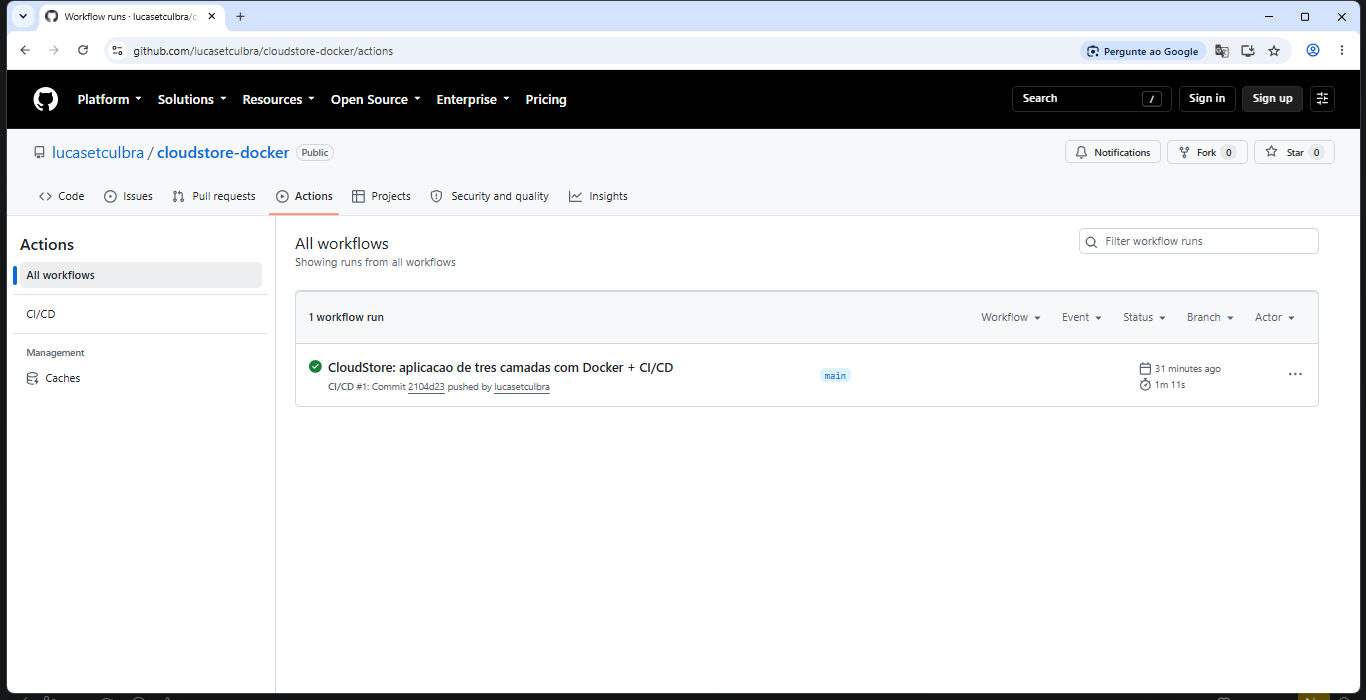
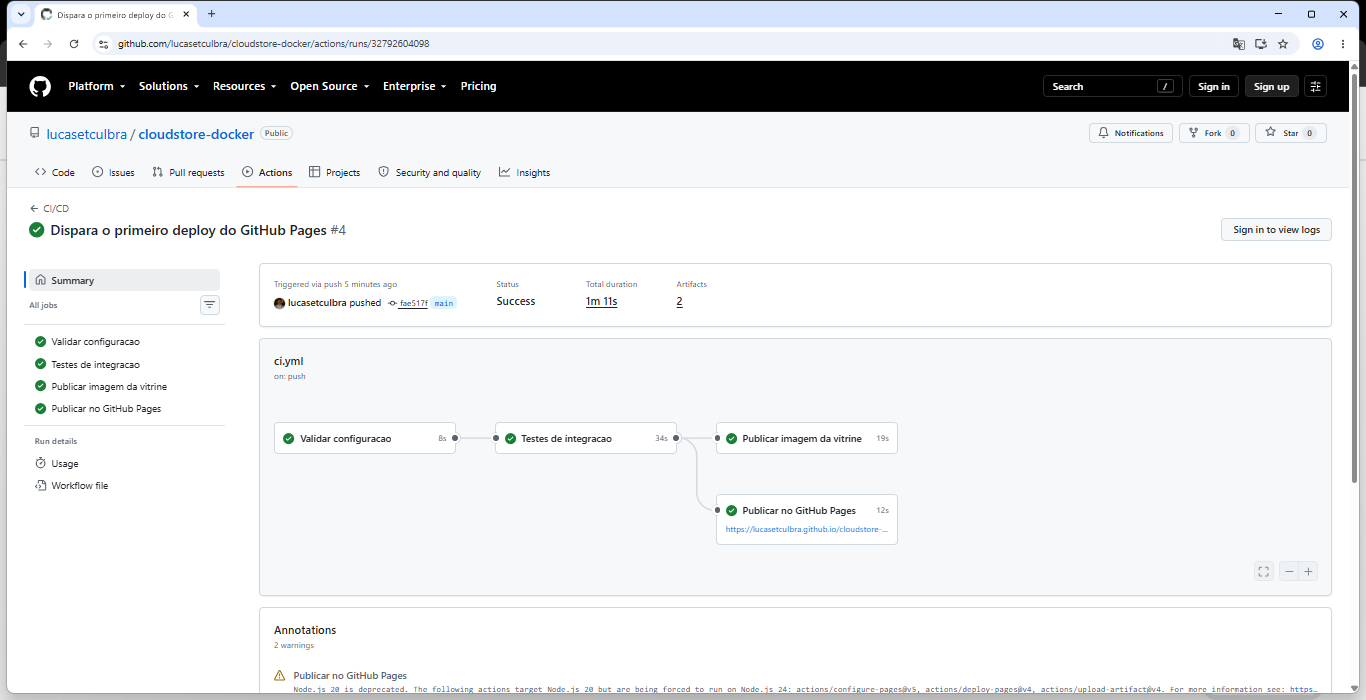
Atualiza a landing page e as evidencias com a etapa do Pages
- site/index.html: o pipeline agora tem quatro etapas, e a ultima e a que
  publica esta propria pagina
- prints 09/10 recapturados com o encadeamento completo, incluindo o job do
  Pages e a URL publicada
- print 11: a pagina do projeto no ar
- prints/README.md documenta o print novo e a ressalva de que /api/ nao
  funciona no Pages, por ser hospedagem estatica

diff --git a/site/index.html b/site/index.html
@@ -257,8 +257,9 @@ docker compose ps</code></pre>
   <section>
     <h2>O pipeline de CI/CD</h2>
     <p class="sub">
-      Três etapas encadeadas no GitHub Actions. A mais interessante é a primeira: ela transforma
-      a regra de segurança da arquitetura num teste automático.
+      Quatro etapas encadeadas no GitHub Actions — esta página é publicada pela última delas.
+      A mais interessante é a primeira: ela transforma a regra de segurança da arquitetura
+      num teste automático.
     </p>
     <div class="etapas">
       <div class="etapa">
@@ -283,6 +284,15 @@ docker compose ps</code></pre>
         <p>
           Empacota a vitrine numa imagem e envia para o GitHub Container Registry, com tag
           <code>latest</code> e tag do SHA do commit — o que torna o deploy reversível.
+        </p>
+      </div>
+      <div class="etapa">
+        <span class="n">4</span>
+        <b>paginas</b>
+        <p>
+          Monta e publica esta página no GitHub Pages, junto com a galeria de evidências e o
+          espelho estático da vitrine. Se o Pages ainda não estiver habilitado, avisa e se
+          encerra sem quebrar o pipeline.
         </p>
       </div>
     </div>

diff --git a/prints/README.md b/prints/README.md
@@ -117,14 +117,26 @@ Versões separadas do mesmo teste, caso seja preferível montar o print no docum
 - **Comprova:** **CI/CD** — o pipeline roda automaticamente a cada push.
 
 ### `10-github-actions-jobs.png`
-- **O que aparece:** o detalhe da execução, com o encadeamento das etapas
-  `Validar configuracao` → `Testes de integracao` → `Publicar imagem da vitrine`,
-  todas em verde, e o artefato publicado.
-- **Comprova:** **CI/CD** — as etapas de validação, teste de integração e entrega.
+- **O que aparece:** o detalhe da execução, com o encadeamento completo das etapas —
+  `Validar configuracao` → `Testes de integracao` → e daí em paralelo para
+  `Publicar imagem da vitrine` e `Publicar no GitHub Pages`, todas em verde. O job do Pages
+  ainda mostra a URL publicada logo abaixo dele.
+- **Comprova:** **CI/CD** — validação, teste de integração e as duas entregas (imagem + site).
 - **O que o pipeline realmente verifica:** além de subir a stack e rodar as 15 asserções que cobrem
   as Tarefas 2 a 8, a etapa `validar` trata a regra de segurança da arquitetura como *policy as code*:
   o build **falha** se a `api` ou o `banco` ganharem `ports:`, ou se o MinIO publicar qualquer porta
   além da `9001`.
+
+### `11-github-pages-site.png`
+- **O que aparece:** a página do projeto publicada em
+  <https://lucasetculbra.github.io/cloudstore-docker/>, com o selo do pipeline em `passing` e o
+  diagrama separando a sub-rede pública da privada.
+- **Comprova:** **CI/CD** — entrega contínua de fato, com o site publicado automaticamente a
+  cada push na `main`.
+- **Ressalva registrada na própria página:** a vitrine espelhada ali é **estática**. A rota
+  `/api/` **não funciona** no GitHub Pages, porque lá não existe Nginx, contêiner de API nem rede
+  interna — apenas arquivos. O proxy reverso e a camada privada só existem com a stack rodando
+  via `docker compose up -d`.
 
 ---
 
